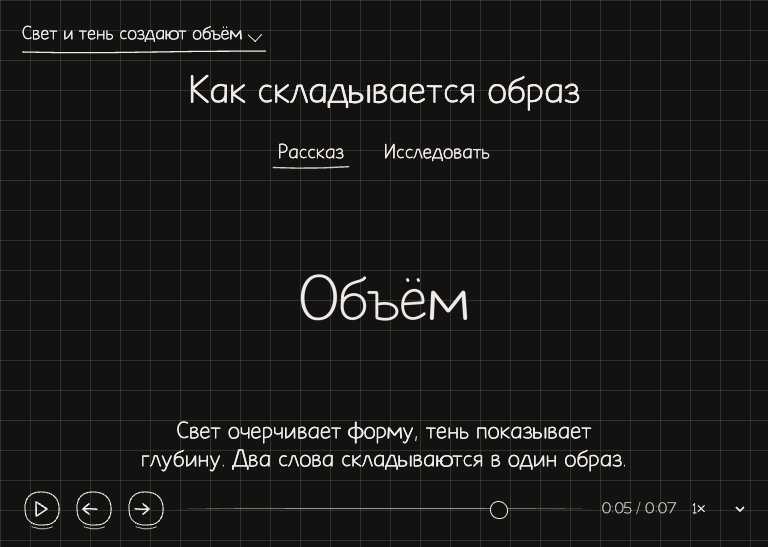
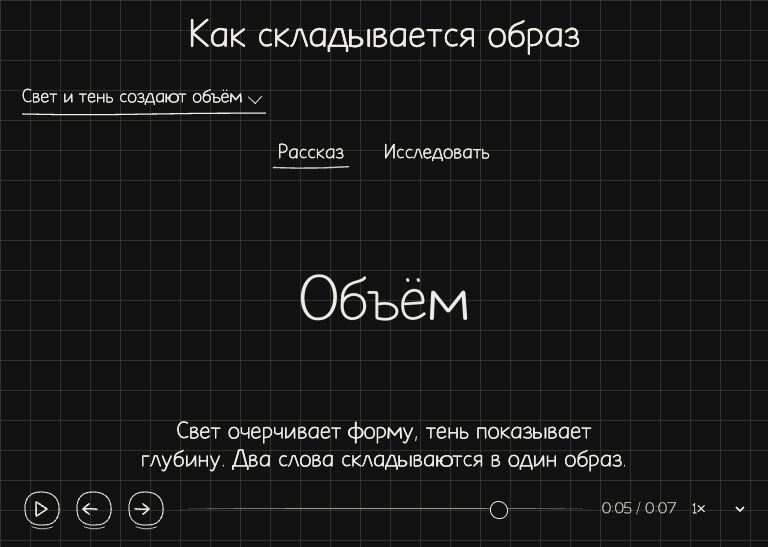
fix(notebook): place chapter navigation below the heading

Changed region(s): [[0.0312, 0.0311, 0.75, 0.1243], [0.0312, 0.1243, 0.75, 0.2176]]

diff --git a/tests/browser/memory-register.spec.ts b/tests/browser/memory-register.spec.ts
@@ -20,7 +20,7 @@ test('chapter navigation stays compact while notebook disclosures retain keyboar
             root.getBoundingClientRect().left -
             parseFloat(getComputedStyle(root).paddingLeft),
         ) < 1,
-      above: rect.bottom < heading.getBoundingClientRect().top,
+      below: rect.top > heading.getBoundingClientRect().bottom,
       compact:
         rect.width <= 320 &&
         rect.height <= 44 &&
@@ -28,7 +28,7 @@ test('chapter navigation stays compact while notebook disclosures retain keyboar
       separate: !heading.contains(element),
     };
   });
-  expect(layout).toEqual({ left: true, above: true, compact: true, separate: true });
+  expect(layout).toEqual({ left: true, below: true, compact: true, separate: true });
   await chapter.focus();
   await page.keyboard.press('ArrowDown');
   await page.keyboard.press('ArrowDown');

diff --git a/src/story/chapters.ts b/src/story/chapters.ts
@@ -22,7 +22,7 @@ export function chapterNavigation(
     (index) => seek(named[Number(index)]!.start),
   );
   navigation.append(field.element);
-  heading.before(navigation);
+  heading.after(navigation);
   return {
     update(time: number) {
       const index = Math.max(

diff --git a/skills/visual-explainer/references/motion.md b/skills/visual-explainer/references/motion.md
@@ -30,7 +30,7 @@
   подчёркнутый выбор и одна строка плеера внизу листа — воспроизведение, шкала, время, звук.
   Субтитры располагаются над плеером. Самостоятельные кнопки имеют видимые состояния;
   нажатие на предмет сохраняет его собственный контур.
-  Выбор главы — компактная запись слева сверху; раскрытия помечены рисованными «+»/«−».
+  Выбор главы — компактная запись слева под заголовком; раскрытия помечены рисованными «+»/«−».
   Значки имеют доступные имена; текст управления не выделяется, клик не оставляет
   рамку, клавиатурный фокус отмечен карандашом.
 - Рисуй детали, участвующие в действии. Для готовых иконок сохраняй источник и лицензию.

diff --git a/skills/visual-explainer/references/scene-template.md b/skills/visual-explainer/references/scene-template.md
@@ -120,7 +120,7 @@ window.galleryReady = (async () => {
 Передавай текущее состояние в каждом кадре: `surface.resize`, `reveal`, `text` и `write` сами пропускают неизменившиеся значения.
 Параметры расширений доступны тем же `api`: `SketchControls`, `pen`, `StoryOptions`.
 
-Для компактного выбора главы слева сверху добавь короткое `title` нужным сегментам
+Для компактного выбора главы слева под заголовком добавь короткое `title` нужным сегментам
 `narration.json`. Оболочка использует их готовое время и сохраняет отдельный заголовок
 урока. Навигация доступна и во время самостоятельного опыта; выбор главы возвращает рассказ.
 Отдельный словарь глав и обработчики плеера не нужны.
